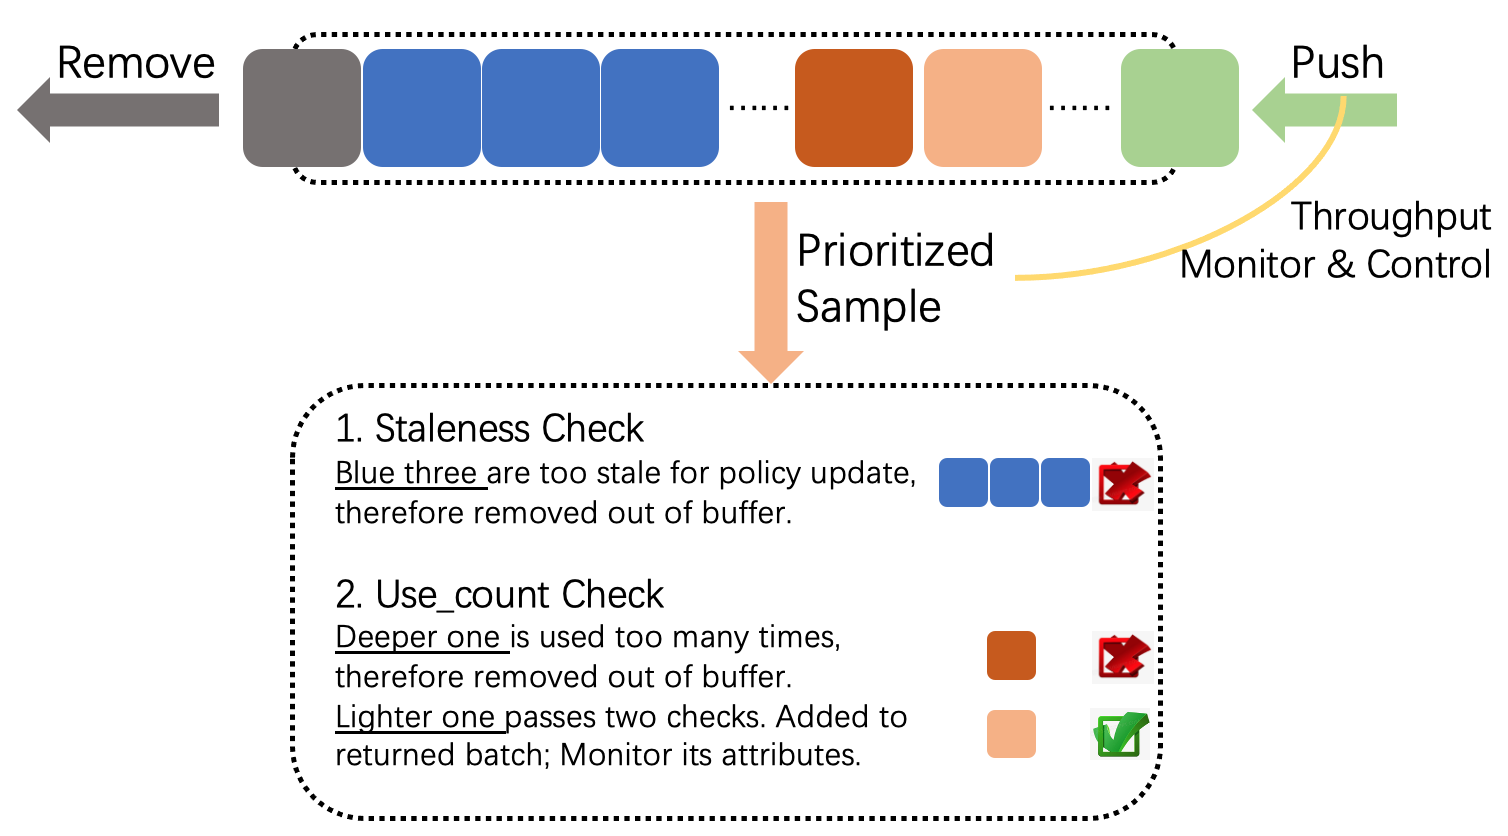
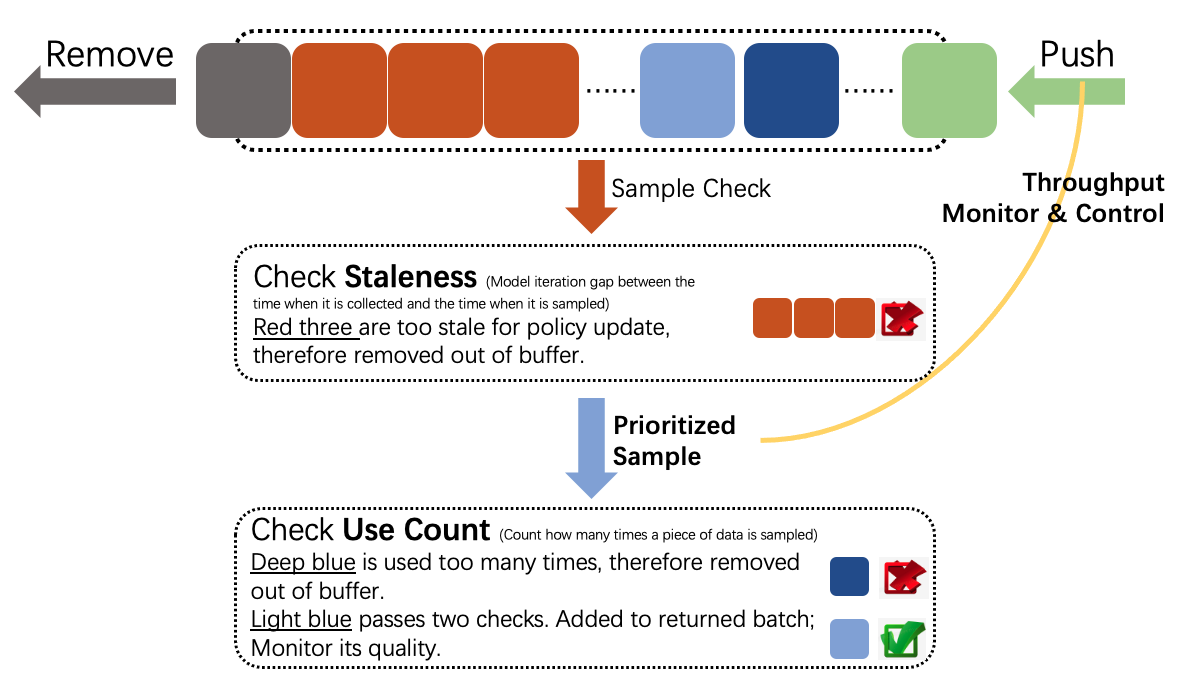
modify buffer img; fix comments by nyz

Changed region(s): [[0.0305, 0.0309, 1.0, 0.9897], [0.8237, 0.433, 0.8542, 0.4948]]

diff --git a/nervex/docs/source/key_concept/index.rst b/nervex/docs/source/key_concept/index.rst
@@ -157,15 +157,7 @@ Worker-Collector
 Worker-Buffer
 ~~~~~~~~~~~~~~~
 
-Worker-Evaluator
-~~~~~~~~~~~~~~~~
-
-Worker-Learner
-~~~~~~~~~~~~~~~~~~
-
-Replay Buffer
-^^^^^^^^^^^^^^^
-Replay buffer is a component to store data collected by collector, then provide data for learner to optimize policy. In nerveX, there are **three types of replay buffers**:
+Replay buffer is a component to store data collected by collector or generated by a fixed policy(usually expert policy), then provide data for learner to optimize policy. In nerveX, there are **three types of replay buffers**:
 
    - NaiveReplayBuffer
    - AdvancedReplayBuffer
@@ -181,31 +173,44 @@ These three are all subclasses derived from abstract Interface ``IBuffer``.
 The key methods of a buffer are ``push`` and ``sample``. ``NaiveReplayBuffer`` is a simple FIFO queue implementation. It only provides basic functions of the two methods.
 
    1. ``push``: Push some collected data in the buffer. If exceeding the max size of the buffer, queue head data will be removed out of buffer.
-   2. ``sample``: Randomly sample a list with length `batch_size`.
+   2. ``sample``: Uniformly sample a list with length `batch_size` by random.
 
 On the basis of ``NaiveReplayBuffer``, ``AdvancedReplayBuffer`` and ``EpisodeReplayBuffer`` respctively implements more functions and features.
 
 ``AdvancedReplayBuffer`` implements following features: (Also shown in figure)
 
    - **Prioritized Sampling**. Completely implement paper `Prioritized Experience Replay <https://arxiv.org/abs/1511.05952>`_
-   - **Monitor data attributes(`use_count` and `staleness`)**. Count how many times a piece of data is sampled. Record the model iteration gap between the time it is collected and the time it is sampled. If a piece of data is used too many times, or is too stale to optimize policy, it will be removed out of buffer.
+   - **Monitor data quality(use_count and staleness)**. If a piece of data is used too many times, or is too stale to optimize policy, it will be removed out of buffer.
+
+   .. note::
+      **use_count**: Count how many times a piece of data is sampled. 
+
+      **staleness**: Model iteration gap between the time when it is collected and the time when it is sampled
+   
    - **Throughput monitor and control**. In a fixed period of time, count how mnay pieces of data are pushed into, sampled out of, removed out of the buffer. Control the ratio "Pushed in" / "Sampled out" in a range, in case the dataflow speed does not match.
    - **Logger**. Sampled data attributes and throughtput is shown in text logger and tensorboard logger.
 
 .. image::
    images/advanced_buffer.png
    :align: center
-   :scale: 50%
+   :scale: 65%
    
 
-.. note::
+.. tip::
    By default, most polices in nerveX adopt ``AdvancedReplayBuffer``, because we think monitor and logger is rather important in debugging and policy tuning. However, if you are sure that you do not need all the  features above, you can feel free to switch to simpler and faster ``NaiveReplayBuffer``.
 
-``EpisodeReplayBuffer`` is designed for some special cases where they need a whole episode rather than seperated samples. For example: In chess, go or card games, players get reward only when the game is over; In some algorithms like Hindsight Experience Replay, must sample out a whole episode and operate on it. Therefore, in ``EpisodeReplayBuffer``, each element is no longer a train sample, but an episode.
+``EpisodeReplayBuffer`` is designed for some special cases where they need a whole episode rather than seperated samples. For example: In chess, go or card games, players get reward only when the game is over; In some algorithms like `Hindsight Experience Replay <https://arxiv.org/abs/1707.01495>`_, must sample out a whole episode and operate on it. Therefore, in ``EpisodeReplayBuffer``, each element is no longer a train sample, but an episode.
 
 In nerveX, we define **full data** and **meta data**. **Full data** is often a dict, with keys ``['obs', 'action', 'next_obs', 'reward', 'info']`` and some optional keys like ``['priority', 'use_count', 'collect_iter', ...]``. However, in some complex environments(Usually we run them in parallel mode), ``['obs', 'action', 'next_obs', 'reward', 'info']`` can be too big to store in memory. Therefore, we store them in file system, and only store **meta data** including ``'file_path'`` and optional keys in memory. Therefore, in parallel mode, when removing a data out of buffer, we must not only remove meta data in memory, but also remove that in file system as well.
 
 If you want to know more details about the three types of replay buffers, or the remove mechanism in parallel mode, please refer to `Replay Buffer Overview <../feature/replay_buffer_overview.html>`_
+
+Worker-Evaluator
+~~~~~~~~~~~~~~~~
+
+Worker-Learner
+~~~~~~~~~~~~~~~~~~
+
 
 Entry(optional)
 ~~~~~~~~~~~~~~~~~
